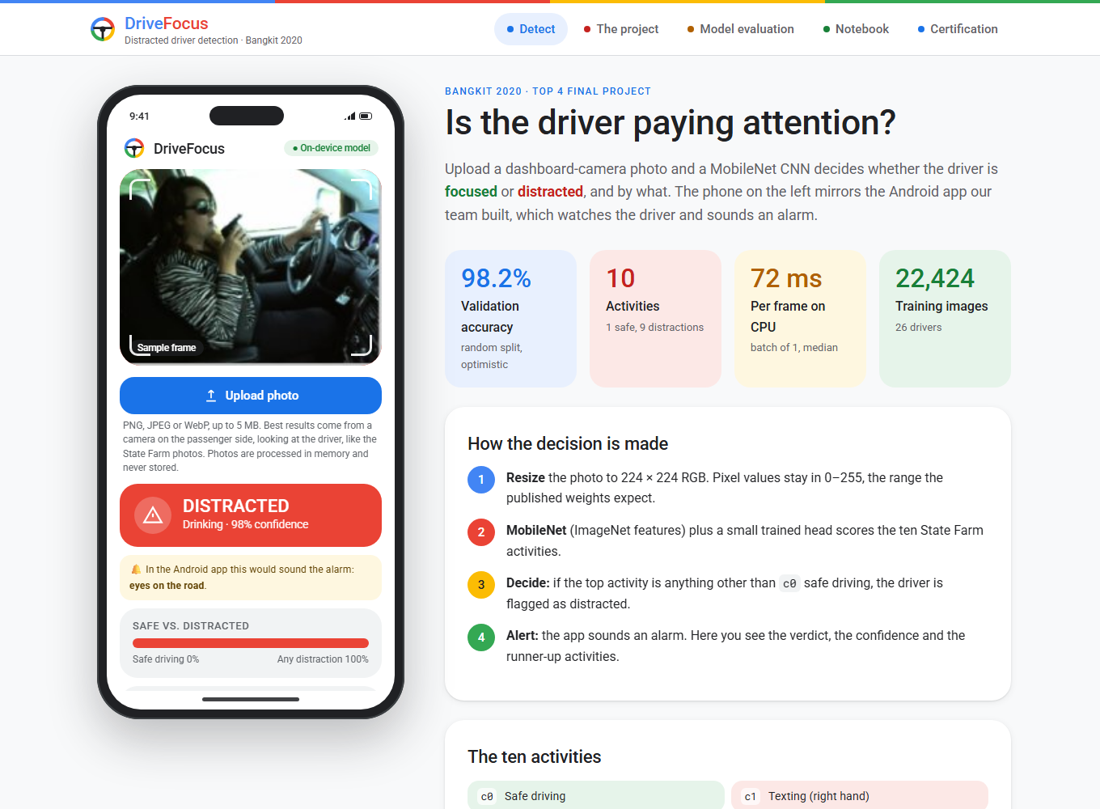
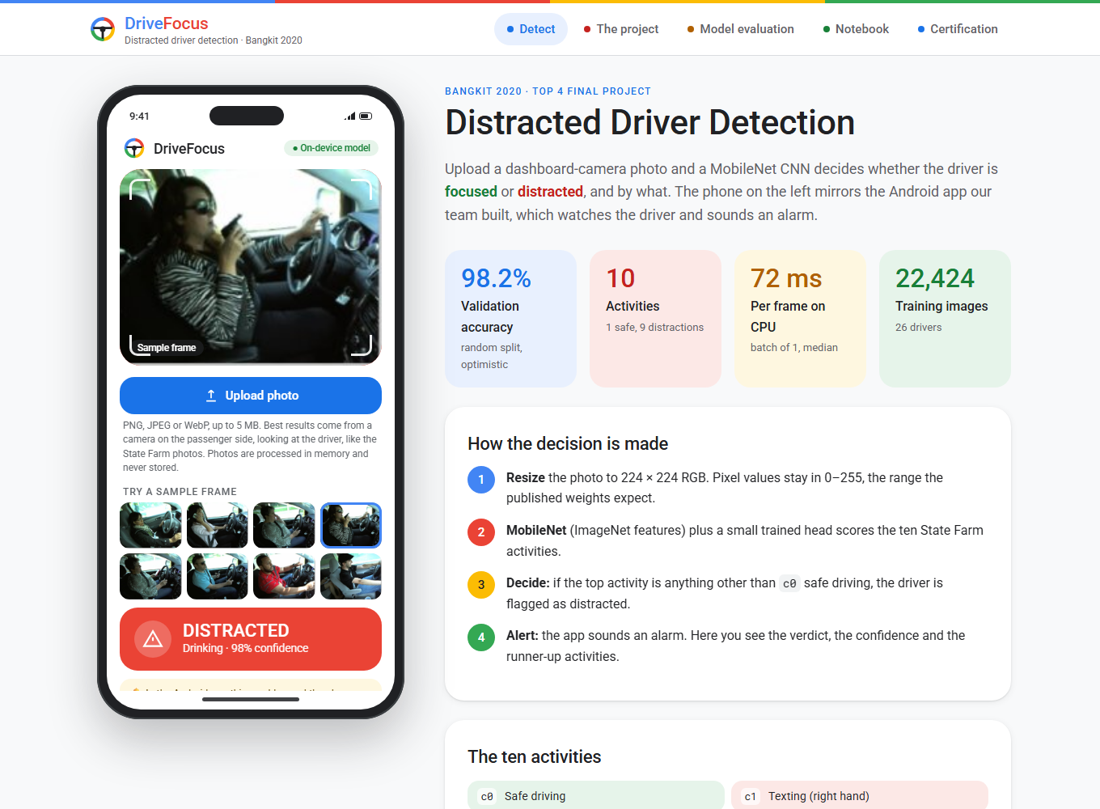
Rename the Detect page heading to Distracted Driver Detection

Changed region(s): [[0.0927, 0.5871, 0.3709, 0.8653], [0.4018, 0.1236, 0.8345, 0.1854]]

diff --git a/webapp/detector/templates/detector/detect.html b/webapp/detector/templates/detector/detect.html
@@ -96,7 +96,7 @@
   <div>
     <section class="intro">
       <div class="eyebrow">Bangkit 2020 · Top 4 final project</div>
-      <h1>Is the driver paying attention?</h1>
+      <h1>Distracted Driver Detection</h1>
       <p class="lead">Upload a dashboard-camera photo and a MobileNet CNN decides whether the driver is <b style="color:var(--green-ink)">focused</b>
          or <b style="color:var(--red-ink)">distracted</b>, and by what. The phone on the left mirrors the Android app our team built, which watches the driver and sounds an alarm.</p>
     </section>
